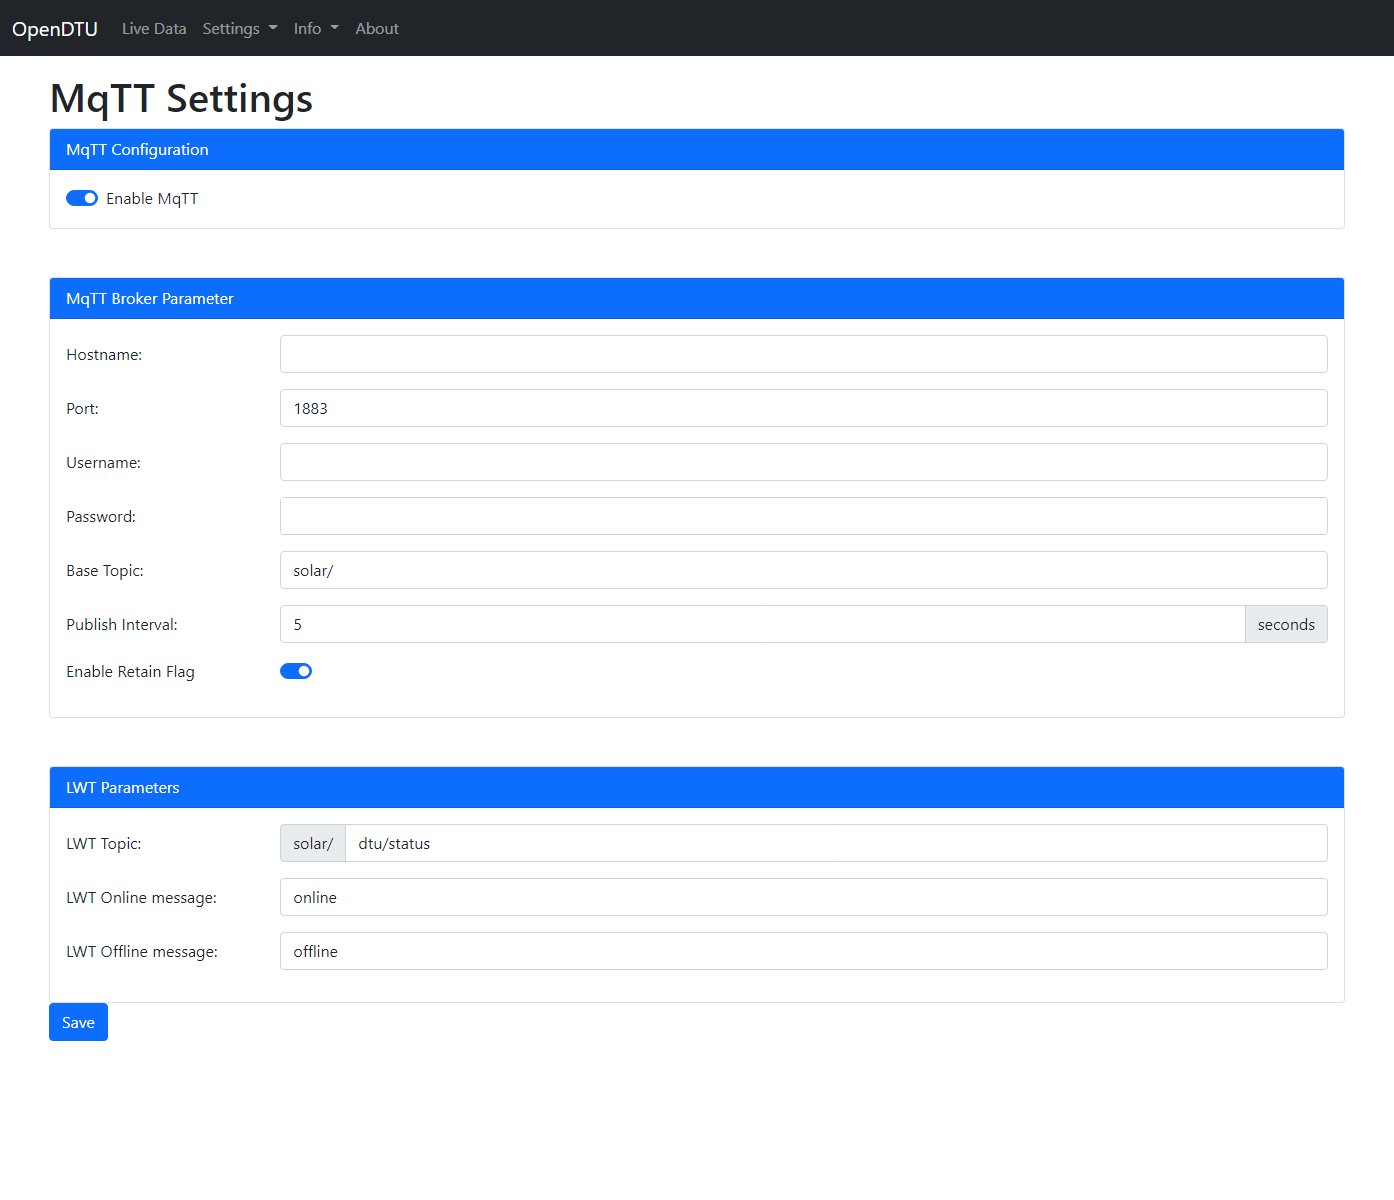
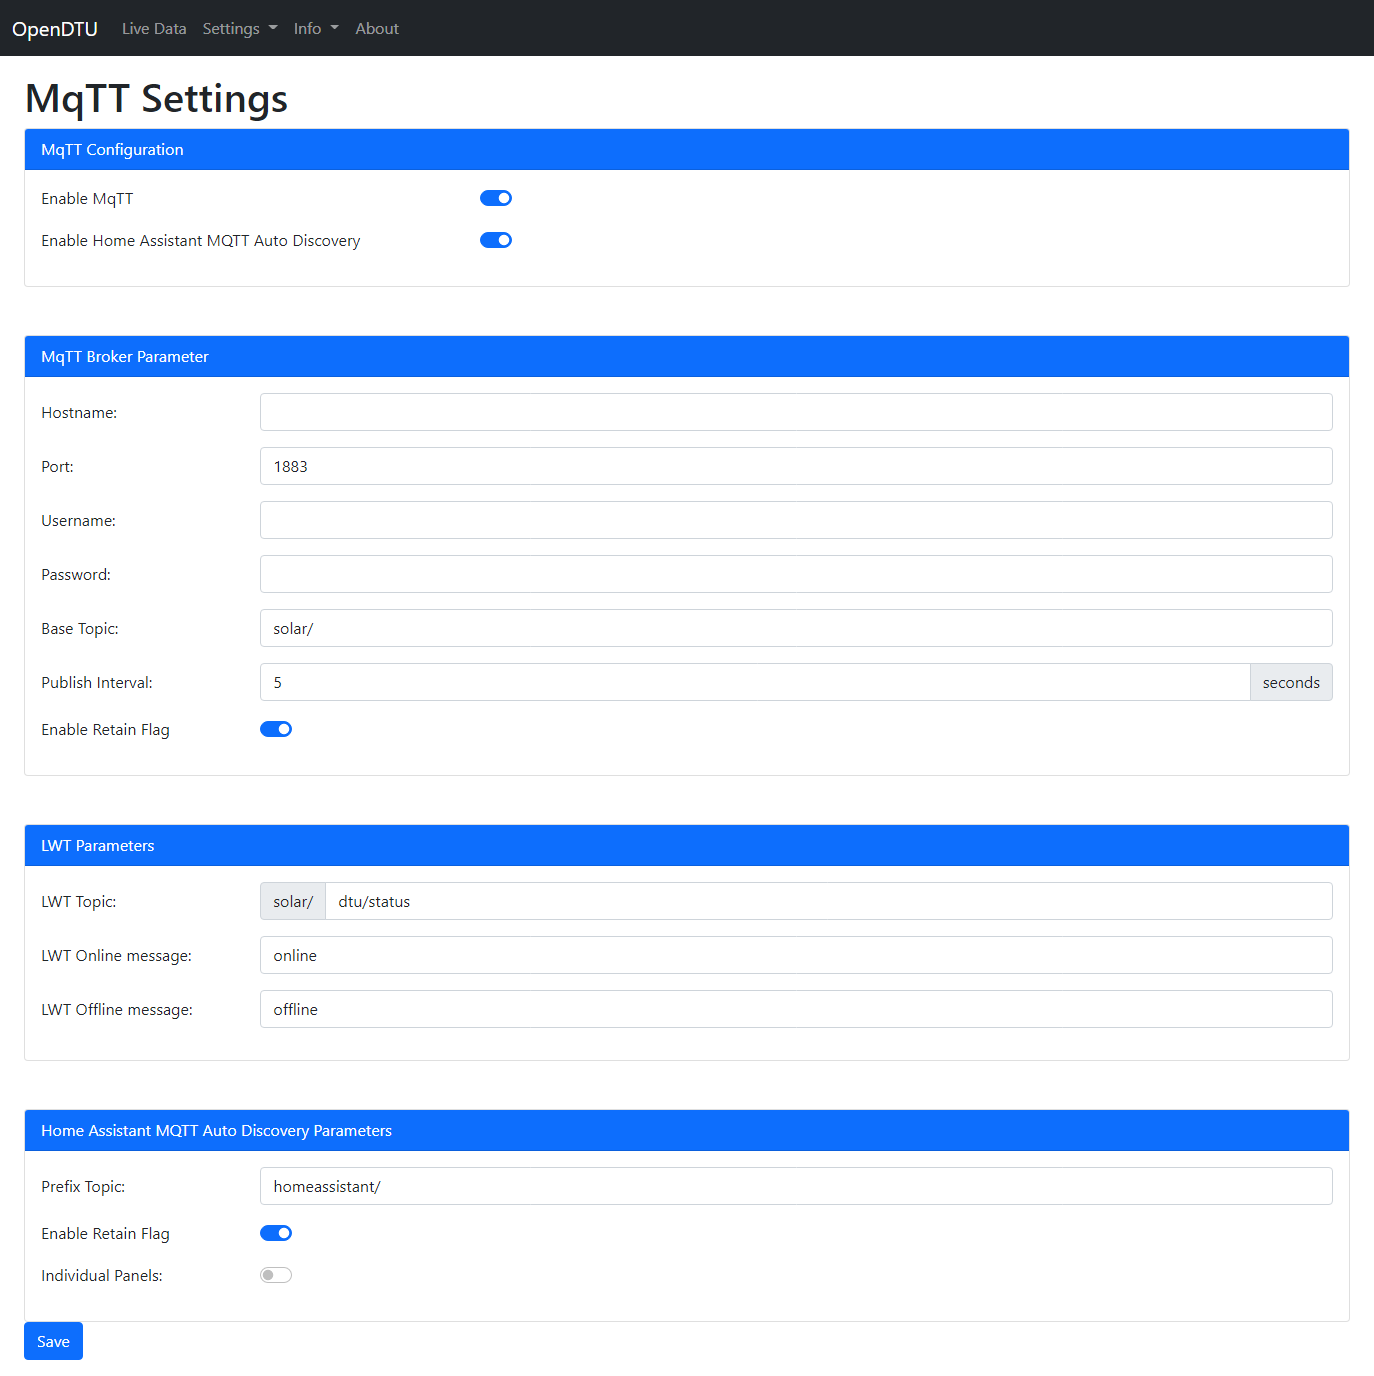
Updated README.md and screenshots

diff --git a/README.md b/README.md
@@ -22,6 +22,7 @@ It was the goal to replace the original Hoymiles DTU (Telemetry Gateway) with th
 * Uses ESP32 microcontroller and NRF24L01+
 * Multi-Inverter support
 * MQTT support
+* Home Assistant MQTT Auto Discovery support
 * Nice and fancy WebApp with visualization of current data
 * Firmware upgrade using the web UI
 * Default source supports up to 10 inverters
@@ -45,16 +46,15 @@ It was the goal to replace the original Hoymiles DTU (Telemetry Gateway) with th
 ![Symbolic](docs/Wiring_ESP32_Symbol.png)
 
 ### Change pin assignment
-Its possible to change the pin assignment for the following pins:
-* CE
-* CS
-* IRQ
-
+Its possible to change all the pins of the NRF24L01+ module.
 This can be achieved by editing the 'platformio.ini' file and add one or more of the following lines to the 'build_flags' parameter:
 ```
--DHOYMILES_PIN_CE=4
+-DHOYMILES_PIN_MISO=15
+-DHOYMILES_PIN_MOSI=2
+-DHOYMILES_PIN_SCLK=14
+-DHOYMILES_PIN_IRQ=13
+-DHOYMILES_PIN_CE=16
 -DHOYMILES_PIN_CS=5
--DHOYMILES_PIN_IRQ=16
 ```
 
 ## Flashing and starting up
